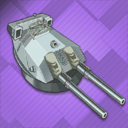
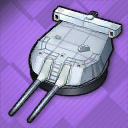
2021--6-28 00:09
Added IJNBattleships.md and associated icons

diff --git a/Fittings/SakuraEmpire/IJNBattleships.md b/Fittings/SakuraEmpire/IJNBattleships.md
@@ -1,0 +1,158 @@
+# Battleships of the Imperial Japanese Navy
+
+## General Info
+
+The battleships of the Eagle Union span from the interwar dreadnought "heavies" of the Nevada and Pennsylvania class, up toward the North Carolina, South Dakota, and eventual Iowa class. Expect heavy AA Armaments in later classes and a continual focus on consistent gun performance. All ships are equipped with destroyer caliber secondary weapons, so while your volleys are quick they may be less useful against maps with heavy suicide craft presence.
+
+### Nevada Class
+
+Battleship (Dreadnought) <br/>
+
+#### Mikasa of Class: <br/>
+Mikasa | ...
+| ----- | ----- |
+![Mikasa](/Icons/Ship/SakuraEmpire/Mikasa.png) | ... <br/>
+
+![30cm](/Icons/Equipment/Guns/BB/40Caliber41stYearType30cm.png)
+![Single140](/Icons/Equipment/Guns/CL/50Caliber3rdYearType14cm.png)
+![120mm45](/Icons/Equipment/Guns/DD/45CaliberType1012cm.png)
+![Type91AP](/Icons/Equipment/Auxiliary/Type91AP.png)
+![Rammer](/Icons/Equipment/Auxiliary/Rammer.png) <br/>
+
+### Kongo Class
+
+Battleship (Battlecruiser)  <br/>
+
+#### Members of Class: <br/>
+Haruna | Hiei | Hiei-chan | Kirishima | Kongou
+| ----- | ----- |
+![Haruna](/Icons/Ship/SakuraEmpire/Haruna.png) | ![Hiei](/Icons/Ship/SakuraEmpire/Hiei.png) | ![Hiei-chan](/Icons/Ship/SakuraEmpire/Hiei-chan.png) | ![Kirishima](/Icons/Ship/SakuraEmpire/Kirishima.png) | ![Kongou](/Icons/Ship/SakuraEmpire/Kongou.png) <br/>
+
+![36cm](/Icons/Equipment/Guns/BB/45Caliber41stYearType36cm.png)
+![6in50Vickers](/Icons/Equipment/Guns/CL/6in50VickersMkM.png)
+![120mm45](/Icons/Equipment/Guns/DD/45CaliberType1012cm.png)
+![Type91AP](/Icons/Equipment/Auxiliary/Type91AP.png)
+![Rammer](/Icons/Equipment/Auxiliary/Rammer.png) <br/>
+
+### Fusou Class
+
+Battleship <br/>
+
+#### Members of Class: <br/>
+Fusou | Yamashiro
+| ----- | ----- |
+![Fusou](/Icons/Ship/SakuraEmpire/Fusou.png) | ![Yamashiro](/Icons/Ship/SakuraEmpire/Yamashiro.png) <br/>
+
+![36cm](/Icons/Equipment/Guns/BB/45Caliber41stYearType36cm.png)
+![6in50Vickers](/Icons/Equipment/Guns/CL/6in50VickersMkM.png)
+![7.6cm](/Icons/Equipment/AA/45CaliberType37.6cm.png)
+![Type91AP](/Icons/Equipment/Auxiliary/Type91AP.png)
+![Rammer](/Icons/Equipment/Auxiliary/Rammer.png) <br/>
+
+##### Seaplane Options after Aviation Battleship Retrofit
+
+![M6A](/Icons/Equipment/Aircraft/Seaplane/E16A.png)
+* There aren't any biplane seaplanes so just take the "oldest" one.
+
+### Ise Class
+
+Battleship <br/>
+
+#### Members of Class: <br/>
+Hyuuga | Ise
+| ----- | ----- |
+![Hyuuga](/Icons/Ship/SakuraEmpire/Hyuuga.png) | ![Ise](/Icons/Ship/SakuraEmpire/Ise.png) <br/>
+
+![36cm](/Icons/Equipment/Guns/BB/45Caliber41stYearType36cm.png)
+![Single140](/Icons/Equipment/Guns/CL/50Caliber3rdYearType14cm.png)
+![7.6cm](/Icons/Equipment/AA/45CaliberType37.6cm.png)
+![Type91AP](/Icons/Equipment/Auxiliary/Type91AP.png)
+![Rammer](/Icons/Equipment/Auxiliary/Rammer.png) <br/>
+
+##### Seaplane Options after Aviation Battleship Retrofit
+
+![M6A](/Icons/Equipment/Aircraft/Seaplane/D4YM21.png)
+![M6A](/Icons/Equipment/Aircraft/Seaplane/E16A.png)
+
+### Nagato Class
+
+Battleship <br/>
+
+#### Members of Class: <br/>
+Mutsu | Nagato
+| ----- | ----- |
+![Mutsu](/Icons/Ship/SakuraEmpire/Mutsu.png) | ![Nagato](/Icons/Ship/SakuraEmpire/Nagato.png) <br/>
+
+![40cm](/Icons/Equipment/Guns/BB/45Caliber3rdYearType40cm.png)
+![Single140](/Icons/Equipment/Guns/CL/50Caliber3rdYearType14cm.png)
+![127mmAA](/Icons/Equipment/AA/40CaliberType8912.7cm.png)
+![Type1AP](/Icons/Equipment/Auxiliary/Type1AP.png)
+![Type98DFD](/Icons/Equipment/Auxiliary/Type98DFD.png) <br/>
+
+### Amagi Class
+
+Battleship (Battlecruiser) <br/>
+
+#### Members of Class: <br/>
+Amagi | Amagi-chan
+| ----- | ----- |
+![Amagi](/Icons/Ship/SakuraEmpire/Amagi.png) | ![Amagi-chan](/Icons/Ship/SakuraEmpire/Amagi-chan.png) <br/>
+
+![40cm](/Icons/Equipment/Guns/BB/45Caliber3rdYearType40cm.png)
+![Single140](/Icons/Equipment/Guns/CL/50Caliber3rdYearType14cm.png)
+![127mmAA](/Icons/Equipment/AA/40CaliberType8912.7cm.png)
+![Type1AP](/Icons/Equipment/Auxiliary/Type1AP.png)
+![Type98DFD](/Icons/Equipment/Auxiliary/Type98DFD.png) <br/>
+
+### Tosa Class
+
+Battleship <br/>
+
+#### Members of Class: <br/>
+Kaga | Tosa
+| ----- | ----- |
+![Kaga](/Icons/Ship/SakuraEmpire/Kaga-BB.png) | ![Tosa](/Icons/Ship/SakuraEmpire/Tosa.png) <br/>
+
+![40cm](/Icons/Equipment/Guns/BB/45Caliber3rdYearType40cm.png)
+![Single140](/Icons/Equipment/Guns/CL/50Caliber3rdYearType14cm.png)
+![120mm45](/Icons/Equipment/Guns/DD/45CaliberType1012cm.png)
+![Type1AP](/Icons/Equipment/Auxiliary/Type1AP.png)
+![Type98DFD](/Icons/Equipment/Auxiliary/Type98DFD.png) <br/>
+
+### Kii Class
+
+Battleship <br/>
+
+#### Members of Class: <br/>
+Kii | Suruga
+| ----- | ----- |
+![Kii](/Icons/Ship/SakuraEmpire/Kii.png) | ![Suruga](/Icons/Ship/SakuraEmpire/Suruga.png) <br/>
+
+![40cm](/Icons/Equipment/Guns/BB/45Caliber3rdYearType40cm.png)
+![Single140](/Icons/Equipment/Guns/CL/50Caliber3rdYearType14cm.png)
+![127mmAA](/Icons/Equipment/AA/40CaliberType8912.7cm.png)
+![Type1AP](/Icons/Equipment/Auxiliary/Type1AP.png)
+![Type98DFD](/Icons/Equipment/Auxiliary/Type98DFD.png) <br/>
+
+##### Project Anti-Air Fit
+
+![40cm](/Icons/Equipment/Guns/BB/45Caliber3rdYearType40cm.png)
+![100mmType98](/Icons/Equipment/Guns/DD/65CaliberType9810cm.png)
+![40mmType98](/Icons/Equipment/AA/40mmHIType91.png)
+![Type1AP](/Icons/Equipment/Auxiliary/Type1AP.png)
+![Type98HAFD](/Icons/Equipment/Auxiliary/Type94HAFD.png) <br/>
+
+### Izumo Class
+
+Battleship (Project) <br/>
+
+#### Members of Class: <br/>
+Izumo | ...
+| ----- | ----- |
+![Kii](/Icons/Ship/SakuraEmpire/Kii.png) | ... <br/>
+
+![40cmP](/Icons/Equipment/Guns/BB/45CaliberType9440cm.png)
+![5in38Mk32](/Icons/Equipment/Guns/DD/5in38Mk32.png)
+![Quad28mm](/Icons/Equipment/AA/Quad1in.png)
+![Type1AP](/Icons/Equipment/Auxiliary/Type1AP.png)
+![Type98DFD](/Icons/Equipment/Auxiliary/Type98DFD.png) <br/>
